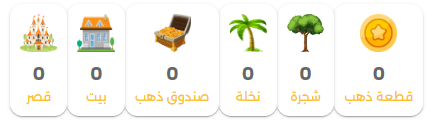
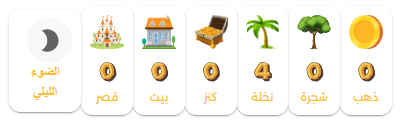
ff

diff --git a/src/components/Info.js b/src/components/Info.js
@@ -3,6 +3,7 @@ import Typography from "@mui/material/Typography";
 import { styled } from "@mui/material/styles";
 import Grid from "@mui/material/Unstable_Grid2";
 import Paper from "@mui/material/Paper";
+import InfoIcon from "@mui/icons-material/Info";
 
 const Item = styled(Paper)(({ theme }) => ({
   backgroundColor: theme.palette.mode === "dark" ? "#1A2027" : "#fff",
@@ -64,7 +65,7 @@ export default function Info() {
         <Typography style={{ fontSize: 15 }}>إضافة نقطة فورية</Typography>
       </Item>
 
-      <Item item="true" xs={1}>
+      {/* <Item item="true" xs={1}>
         <img src={"Info/Alsbah.png"} alt="Logo" />
 
         <Typography style={{ fontSize: 15 }}>
@@ -78,7 +79,7 @@ export default function Info() {
         <Typography style={{ fontSize: 15 }}>
           عند النقر تظهر أذكار المساء
         </Typography>
-      </Item>
+      </Item> */}
 
       <Item item="true" xs={1}>
         <img src={"Info/Athkar.png"} alt="Logo" />
@@ -95,7 +96,7 @@ export default function Info() {
       </Item>
 
       <Item item="true" xs={1}>
-        <img src={"Info/infoicon.gif"} alt="Logo" />
+        <InfoIcon color="primary" fontSize="large" />
 
         <Typography style={{ fontSize: 15 }}>شرح استخدام التطبيق</Typography>
       </Item>
@@ -108,11 +109,11 @@ export default function Info() {
         </Typography>
       </Item>
 
-      <Item item="true" xs={1}>
+      {/* <Item item="true" xs={1}>
         <img src={"Info/present.png"} alt="Logo" />
 
         <Typography style={{ fontSize: 15 }}>متجر الجوائز</Typography>
-      </Item>
+      </Item> */}
 
       <Item item="true" xs={1}>
         <Typography style={{ fontSize: 12 }}>

diff --git a/src/components/Myheaven.js b/src/components/Myheaven.js
@@ -438,6 +438,16 @@ const Myheaven = ({ activationInterval = H20, theme }) => {
             >
               <InfoIcon fontSize="large" />
             </IconButton>
+            <Typography
+              style={{
+                color: "#fbc02d",
+                fontWeight: "bold",
+                fontSize: 10,
+                marginTop: 1,
+              }}
+            >
+              شرح التطبيق
+            </Typography>
           </Grid>
           <Grid
             item
